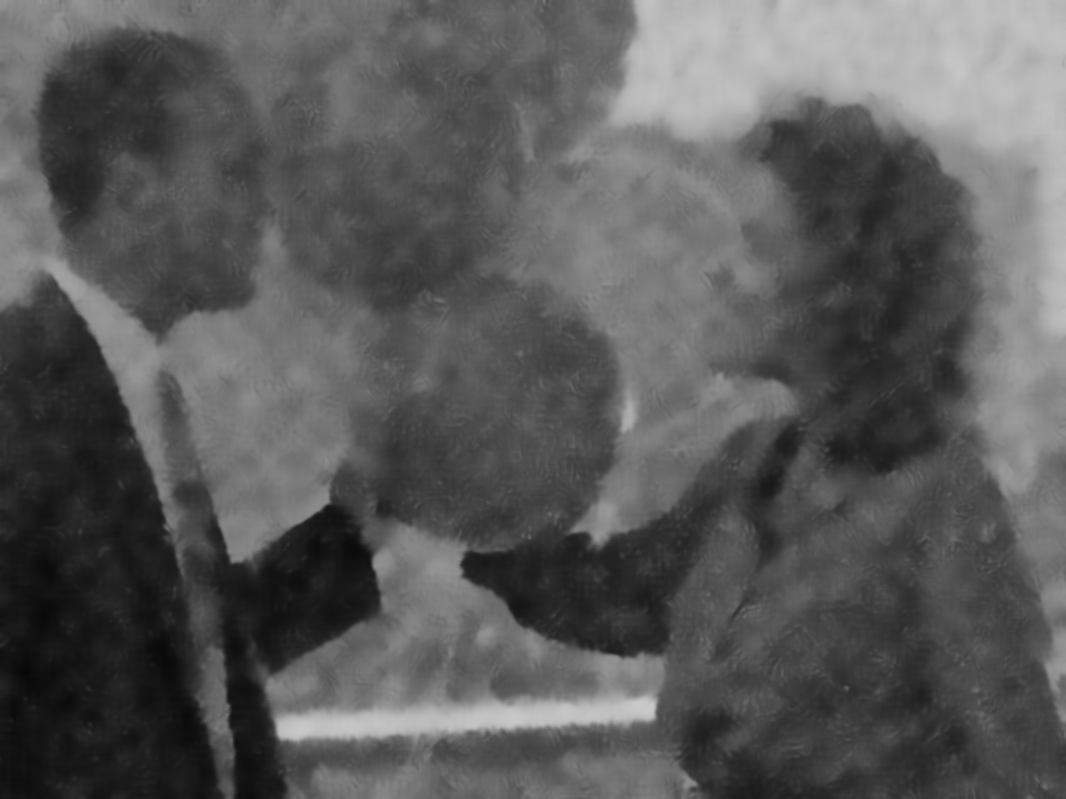
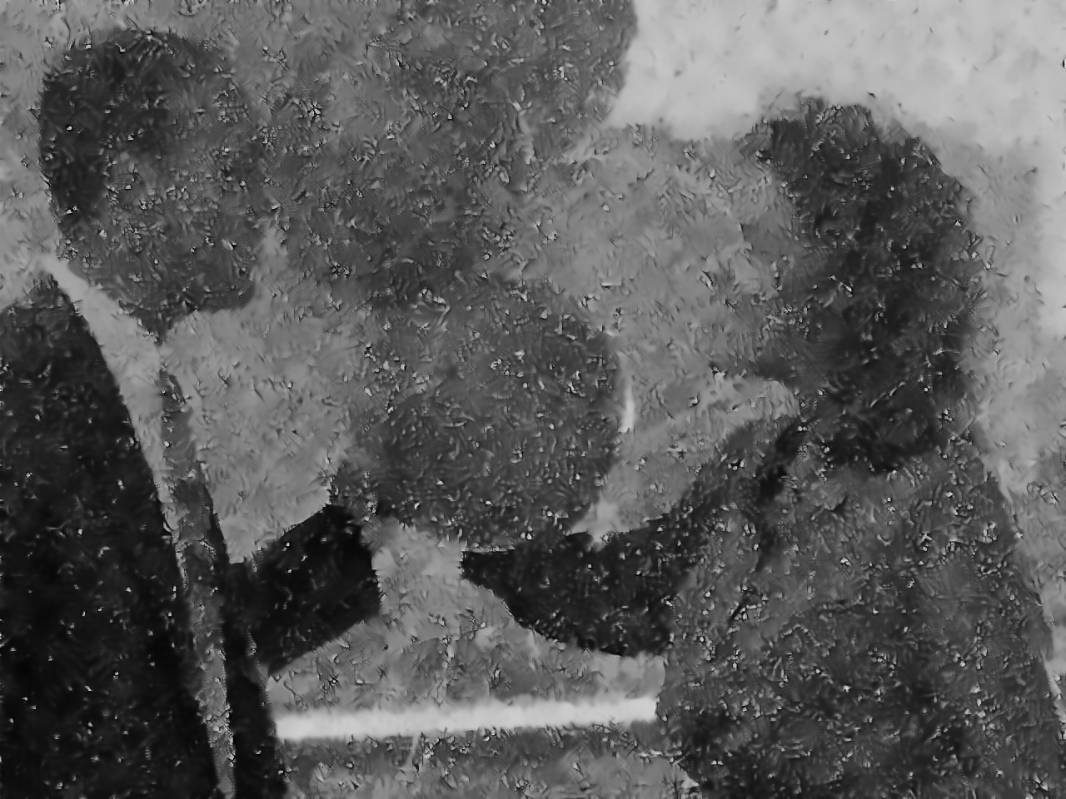
skibidi toilet

diff --git a/app.py b/app.py
@@ -47,7 +47,7 @@ def perform_nlm_denoising(image):
     gray_image = cv2.cvtColor(image, cv2.COLOR_BGR2GRAY)
 
     # H defines the filter strength (more =  blurry, less = less filter)
-    denoised_image = cv2.fastNlMeansDenoising(gray_image, None, h=50)
+    denoised_image = cv2.fastNlMeansDenoising(gray_image, None, h=20)
 
     return denoised_image
 
